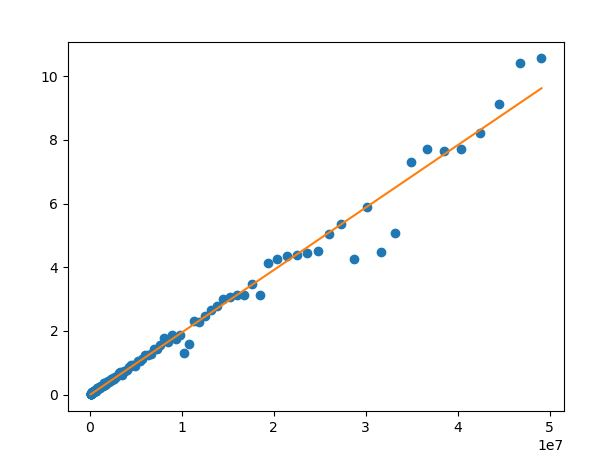
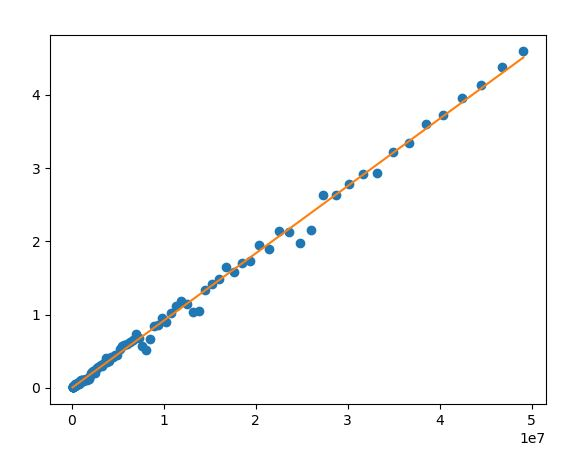
Add files via upload

diff --git a/test_deque.cpp b/test_deque.cpp
@@ -1,5 +1,6 @@
 # include <iostream>
 # include <vector>
+# include <fstream>
 # include <cstdlib>
 # include <ctime>
 # include <gtest/gtest.h>
@@ -121,7 +122,7 @@ void randomOperation(Deque<T> &d, SillyDeque<T> &sd, const T &random_value)
     }
 }
 
-TEST(testCaseName, testName)
+TEST(DequeTest, PushPopTest)
 {
     Deque<int> d;
     SillyDeque<int> sd;
@@ -131,6 +132,31 @@ TEST(testCaseName, testName)
         randomOperation(d, sd, rand());
         EXPECT_TRUE(check(d, sd));
     }
+}
+
+TEST(DequeTest, TimeTest)
+{
+    std::ofstream out("output.txt");
+    for (int size = 1e5; size <= 5e7; size *= 1.05)
+    {
+        out << size << " ";
+        std::clock_t start = std::clock();
+        Deque<int> d;
+        for (int i = 0; i < size; i++)
+        {
+            if (d.empty() || !rand() % 3)
+            {
+                d.push_back(rand());
+            }
+            else
+            {
+                d.pop_front();
+            }
+        }
+        std::clock_t finish = std::clock();
+        out << (double)(finish - start) / CLOCKS_PER_SEC << "\n";
+    }
+    out.close();
 }
 
 int main(int argc, char **argv)

diff --git a/graphic.py b/graphic.py
@@ -12,4 +12,5 @@ with open("output.txt", "r") as f:
 f = np.poly1d(np.polyfit(x, y, 1))
 
 plt.plot(x, y, 'o', x, f(x), '-')
+
 plt.show()
